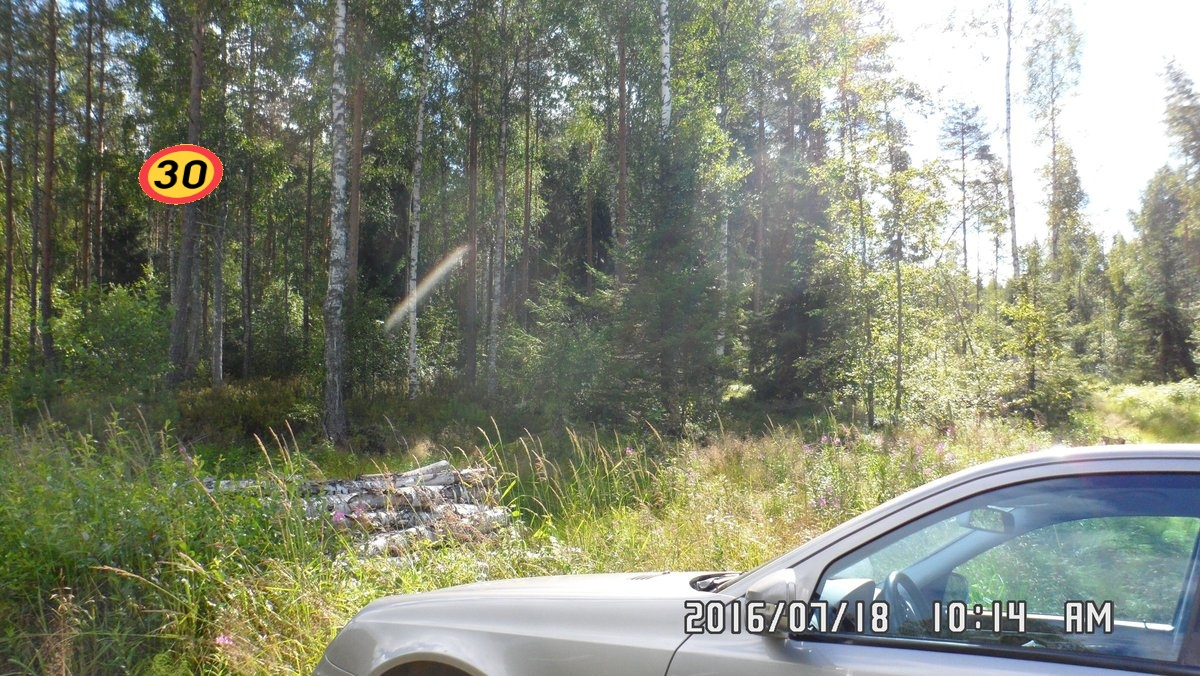
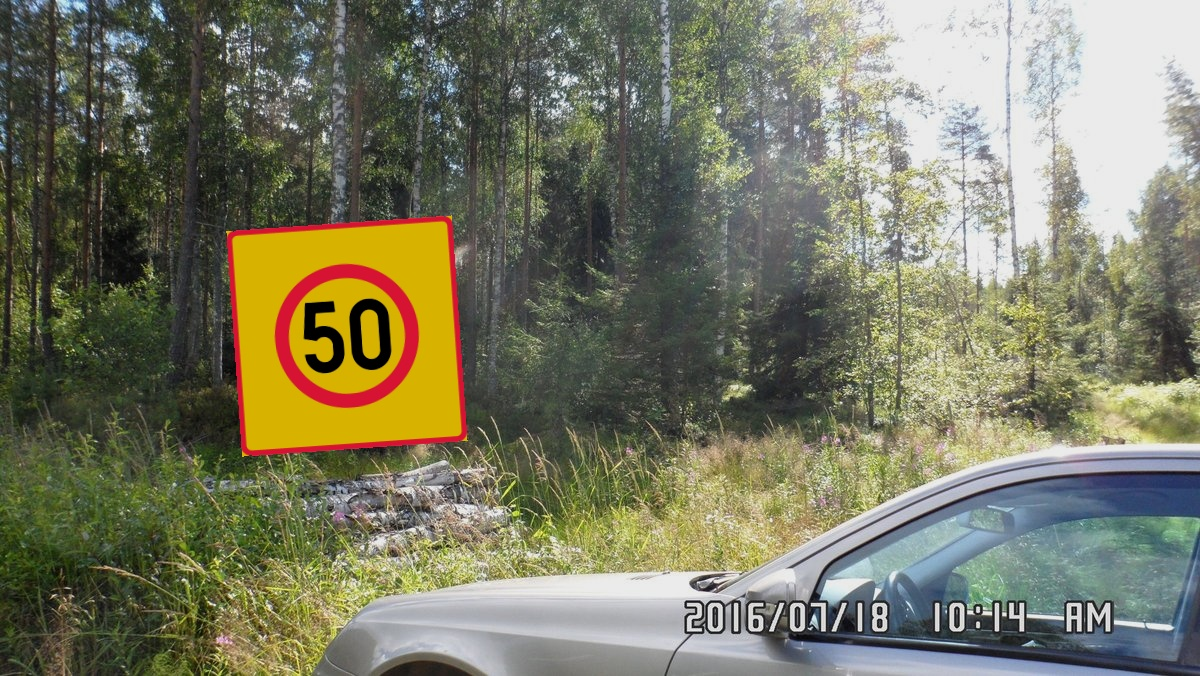
support randomized wrangle class/test images

Changed region(s): [[0.185, 0.3107, 0.4008, 0.6834], [0.0925, 0.2175, 0.185, 0.3107]]

diff --git a/create-data.py b/create-data.py
@@ -13,31 +13,36 @@ flags.DEFINE_integer('debug', -1, '-3=fatal, -1=warning, 0=info, 1=debug')
 flags.DEFINE_integer('seed', None, 'Random seed (default None)')
 flags.DEFINE_boolean('interactive', False, 'show training data')
 flags.DEFINE_integer("maxImages", -1, "Number of images to generate, -1=proces all background images")
-flags.DEFINE_string( "imagelistTemplate",
-                     "{imageFileBasename} -1\n", "template to interpolate imagelist file lines")
-flags.DEFINE_string( "classesTemplate",
-                     "{value}-{startOrEnd}", "template to interpolate classes file lines")
+
 
 # input
 flags.DEFINE_string('classImages', "Images/signs", "path to class images")
 flags.DEFINE_string('backgrounds', 'backgrounds', 'path to backgroud images')
 flags.DEFINE_string('testSet', "TSR1", 'Test set name (=folder in output -directory)')
 
-# filters
-flags.DEFINE_multi_integer( "rotates", [10,-45], "Rotate filters used on classImages")
+# class image filters
+flags.DEFINE_multi_integer( "rotates", [10,4  ,-5, -10], "Rotate filters used on classImages")
 flags.DEFINE_multi_integer( "blur", [3,5], "Blur filters used on classImages")
-flags.DEFINE_multi_integer( "brightness", [-100,-50], "Brigness filters used on classImages")
+flags.DEFINE_multi_integer( "brightness", [-70,-20], "Brigness filters used on classImages")
 flags.DEFINE_multi_string( "perspective", [ "45,-10", "10,10", "-30,10" ], "Possible perspective values")
-flags.DEFINE_multi_string( "classImageWrangles", [ "blur", "rotate", "brightness" ], "Filter wrangles to run class images" )
+flags.DEFINE_multi_string( "classImageWrangles", [ "blur", "rotate", "brightness", "perspective" ], "Filter wrangles to run on class images" )
+
+# test image filters
+flags.DEFINE_multi_integer( "brightness2", [-30,-20], "Brigness filters used on test images")
+flags.DEFINE_multi_integer( "blur2", [1,2,3], "Blur filters used on test images")
+flags.DEFINE_multi_string( "testImageWrangles", [ "brightness", "blur" ], "Filter wrangles to run on test images (=final result)" )
 
 # output
 flags.DEFINE_string('images', "out/tsrVOC/JPEGImages", 'output folder where test images are written')
-flags.DEFINE_string(
-    'annotations', "out/tsrVOC/Annotations"
-    , "path to  annotations folder (defaults 'annotations' under images folder)")
+flags.DEFINE_string( 'annotations', "out/tsrVOC/Annotations" , "path to annotations folder")
 flags.DEFINE_string('classes', "out/tsrVOC/classes.txt", 'path file where classnames are written')
+flags.DEFINE_string( "classesTemplate",
+                     "{value}-{startOrEnd}", "template to interpolate classes file lines")
+
 flags.DEFINE_string('imagelist', "out/tsrVOC/imagelist.txt",
                     'path file where list of images are written')
+flags.DEFINE_string( "imagelistTemplate",
+                     "{imageFileBasename} -1\n", "template to interpolate imagelist file lines")
 
 
 ## flags.DEFINE_list( "rotates", "-32,-10,-5,3,35,45", "rotate angles to wrangle class images")
@@ -73,20 +78,24 @@ def main(_argv):
 
     # Set of filters randomly maninpulating classImage before pasting
     # into background
-    classFilters = { "rotate" : FLAGS.rotates, "blur": FLAGS.blur
-                     , "brightness": FLAGS.brightness
-                     , "perspective": FLAGS.perspective
-    }
-    #  "perspective": [[-45,0],[10,10], [0,0]]
-    print( "classFilters {}".format( classFilters))
-    filters = src.imageTools.Filters( classFilters )
-    classImageWrangles = filters.classImageWrangles( wrangleTypes = FLAGS.classImageWrangles)
-    # classImageWrangles = [ list(w) for w in itertools.product(
-    #     filters.blurNames(),
-    #     filters.brightnessNames(),
-    #     filters.rotateNames() )]
+    classImagesFilters = src.imageTools.Filters(
+        { "rotate" : FLAGS.rotates, "blur": FLAGS.blur
+          , "brightness": FLAGS.brightness
+          , "perspective": FLAGS.perspective
+    })
+    classImageWrangles = classImagesFilters.imageWrangles( wrangleTypes = FLAGS.classImageWrangles)
     logging.info( "classImageWrangles={0}".format( classImageWrangles))
 
+    # Wranlers to run on test images (=finalize result)
+
+    testImagesFilters = src.imageTools.Filters(
+        { 
+            "brightness": FLAGS.brightness2
+            , "blur": FLAGS.blur2
+        })    
+    testImageWrangles = testImagesFilters.imageWrangles(wrangleTypes = FLAGS.testImageWrangles)
+    logging.info( "testImageWrangles={0}".format( testImageWrangles))    
+    
     
     # First image number
     indx = 1
@@ -98,20 +107,24 @@ def main(_argv):
     imagesDirectory = os.path.join(FLAGS.images)
     annotationDirectory =  os.path.join(FLAGS.annotations)
 
-    # make sure that directoies exist 
+    # make sure that directories exist 
     ensure_dir( imagesDirectory )
     ensure_dir( annotationDirectory )
     ensure_filedir( FLAGS.imagelist )
     ensure_filedir( FLAGS.classes )    
 
-    
+
+    # empty imagelist
     open( FLAGS.imagelist, "w").close()
     
     # Collect unique class names
     classnames = set()
-    for indx, mergedImage in enumerate(src.createTrainingData.yieldMergedImages(
-            backgroundGen, classImagesList, filters, maxImages=FLAGS.maxImages, wrangles=classImageWrangles,
-            debug=False, debugDebug=False )):
+    for indx, mergedImage in enumerate(
+            src.createTrainingData.yieldMergedImages(
+                backgroundGen,
+                classImagesList, classImagesFilters,
+                maxImages=FLAGS.maxImages, wrangles=classImageWrangles,
+                debug=False, debugDebug=False )):
 
         # iterate 'backgroundGen', choose random image from
         # 'classImagesList', and run random wrangler from
@@ -123,7 +136,10 @@ def main(_argv):
         # Use template to define class name
         mergedImage["classname"] = FLAGS.classesTemplate.format(**mergedImage["classInfo"] )
 
-        testImage, _ = src.createTrainingData.createTestImage( mergedImage, indx , testSet=FLAGS.testSet  )
+        # actual merge
+        testImage, _ = src.createTrainingData.createTestImage(
+            mergedImage, indx , testSet=FLAGS.testSet,
+            wrangles=testImageWrangles, filters=testImagesFilters )
 
         if FLAGS.interactive: 
             imgBox = src.imageTools.drawBoundingBox( testImage["testImage"], testImage["boundingBox"] )
@@ -147,7 +163,7 @@ def main(_argv):
             
 
     # create classes file with unique classnames
-    classNameLines = [ cName+"\n" for cName in classnames  ]
+    classNameLines = [ cName+"\n" for cName in sorted(classnames) ]
     with open( FLAGS.classes, "w+" ) as classFile:
         classFile.writelines( classNameLines )
             

diff --git a/src/createTrainingData.py b/src/createTrainingData.py
@@ -51,7 +51,7 @@ def yieldMergedImages( backgroundGen, classImagesList, filters, wrangles=list(),
         mH,mW = mask.shape[:2]
         return( random.randrange(0,iH-mH), random.randrange(0,iW-mW)  )
     
-    def randomResizeWidth( maxWidth=100, minWidthPercent=0.1, minWidthLimit=30):
+    def randomResizeWidth( maxWidth=100, minWidthPercent=0.1, minWidthLimit=50):
         """@brief return randomized width for image to merge into backgroud
 
         @param minWidthLimit min value of width
@@ -129,7 +129,7 @@ def yieldMergedImages( backgroundGen, classImagesList, filters, wrangles=list(),
 
     
 
-def createTestImage( mergedImage, indx, testSet, imgType="jpg", wrangles=list() ):
+def createTestImage( mergedImage, indx, testSet, imgType="jpg", wrangles=list(), filters=None ):
     """@brief Finalize 'mergedImage' to 'testImage' using set of
     'wrangeles' 
 
@@ -148,7 +148,7 @@ def createTestImage( mergedImage, indx, testSet, imgType="jpg", wrangles=list() 
 
     """
     mergedImage["testImage"], mask = wrangleImages(
-        mergedImage['mergedImg'], None, wrangles, None )
+        mergedImage['mergedImg'], None, wrangles, filters )
 
     # Generate unique name
     mergedImage["indx"] = indx

diff --git a/src/imageTools.py b/src/imageTools.py
@@ -274,7 +274,7 @@ class Filters:
         return( "{0}{1}".format(filterName, filterParam), Filters.createLambda( filterFunction, filterParam))
 
     #  "blur", "rotate", "brightness",
-    def classImageWrangles( self, wrangleTypes = [ "perspective"], noop=True ):
+    def imageWrangles( self, wrangleTypes = [ "perspective"], noop=True ):
         """
         @param wrangleTypes list of filter types to include in 'classImageWrangles'
 
@@ -287,8 +287,9 @@ class Filters:
         if noop: noopFilter = [ "noop"]
         
         wrangleNames = [ list(w) for w in itertools.product( *[self.filterTypes[typeName]  + noopFilter for typeName in wrangleTypes ] ) ]
-        logging.info( "classImageWrangles: wrangleNames {}".format(wrangleNames))
+        logging.info( "imageWrangles: wrangleNames {}".format(wrangleNames))
         return( list(wrangleNames) )
+
 
     def wrangleDict(self):
         """@return dict mapping filter name to lambda -function implementing

diff --git a/RELEASES.md b/RELEASES.md
@@ -1,5 +1,11 @@
 ## 0.1.5-SNAPSHOT/20200518-14:16:54
+
+- support randomized wrangle class/test images
+
 ## 0.1.4/20200518-14:16:45
+
+- filter examples
+
 ## 0.1.3/20200514-09:54:11
 
 - fixed toc
